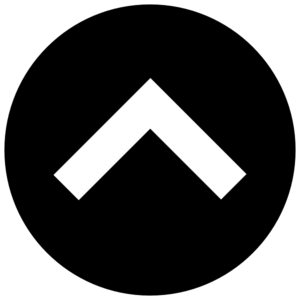
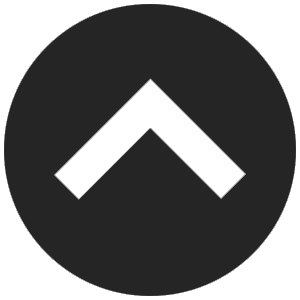
Delete unused images and preps skrollr

diff --git a/css/desktop.css b/css/desktop.css
@@ -214,25 +214,17 @@
     color: #007bb6;
   } 
 
-  .arrow {
-    position: fixed;
-    bottom: 0;
-    left: 50%;
-    margin-left:-20px;
-    width: 40px;
-    height: 40px;
[1 lines of base64/hex data omitted]
-    background-size: contain;
-  }
 
-
-  #blurb-container{
+  #contact-container{
     position: relative;
-    margin-bottom: 1rem;
-    margin-left: 0;
-    background-color: black;
+    margin-top: 28rem;
+    left: 0;
+    background-color: #343434;
     height: 15rem;
-    width: 30rem;    
+    width: 40rem;
+    box-shadow: 0 3px 3px rgba(1,1,1,0.2);
+    -webkit-box-shadow: 0 3px 3px rgba(1,1,1,0.2);
+    -moz-box-shadow: 0 3px 3px rgba(1,1,1,0.2);    
   }
 
 
@@ -317,14 +309,12 @@
     transform: translateY(15px);
   }
 }
-body {
-  background: #e2e2e2;
-}
+
 
 .arrow {
   position: absolute;
   top: 3.2rem;
-  left: 5.5rem;
+  right: 11.5rem;
   width: 40px;
   height: 40px;
   background-image: url('../images/arrow.png');

diff --git a/portfolio.html b/portfolio.html
@@ -87,15 +87,22 @@
   <section class = "section" id = "contact"> 
     <div class="arrow animated bounce">
     </div>
-    <div id="blurb-container">
-    </div>
+<!--     <div id="contact-container">
+      <h1 id="name">
+        Josh Jeong
+      </h1>
+      <h3 id="email">
+        Email: jcjeong@gmail.com
+      </h3>
+      <a href=""></a>Github | LinkedIn| Resume
+    </div> -->
   </section>
-
   <script src="http://code.jquery.com/jquery-1.11.0.min.js"></script>
   <script type="text/javascript" src="js/dist/js/portfolio.js"></script>
+  <script type="text/javascript" src="js/skrollr-master/dist/skrollr.min.js"></script>
+  <script type="text/javascript">
+  //   smoothScroll.init();
+     var s = skrollr.init();
+  </script>
 </body>
 </html>
-  <script>
-  //   smoothScroll.init();
-  //    var s = skrollr.init();
-  </script>

diff --git a/css/small-devices.css b/css/small-devices.css
@@ -30,7 +30,10 @@
     height: 2rem;
     position: fixed;
     z-index: 2;
-    background-color: black;
+    background-color: #343434;
+    box-shadow: 0 3px 3px rgba(1,1,1,0.2);
+    -webkit-box-shadow: 0 3px 3px rgba(1,1,1,0.2);
+    -moz-box-shadow: 0 3px 3px rgba(1,1,1,0.2);
   }
 
   .navbar-right, .navbar-left {

diff --git a/css/portfolio.css b/css/portfolio.css
@@ -71,7 +71,7 @@ html {
 }
 
 #portfolio {
-  background: black;
+  background: #343434;
 }
 
 /*
